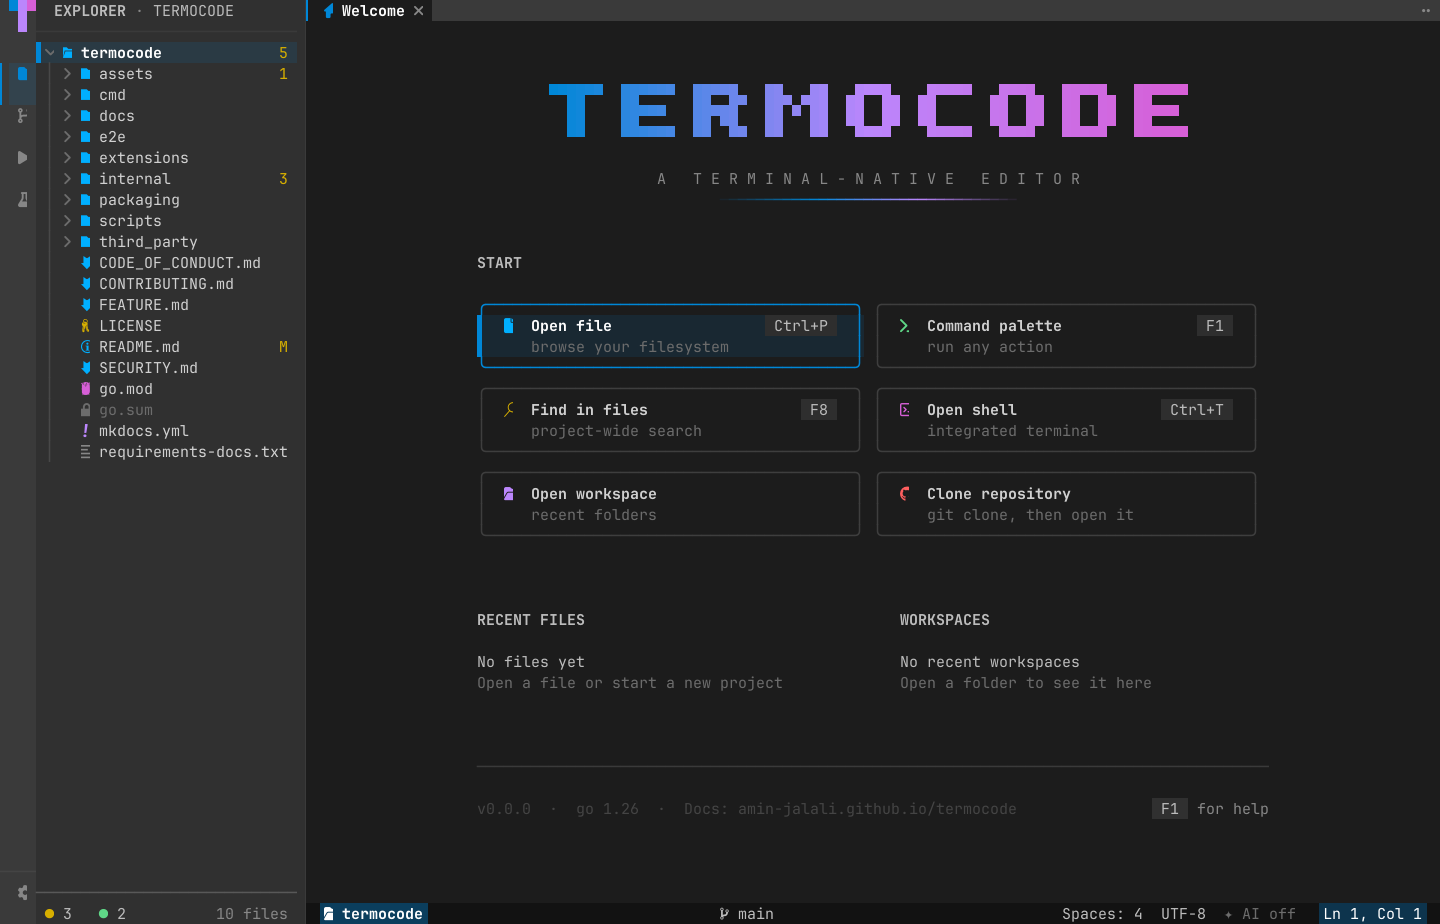
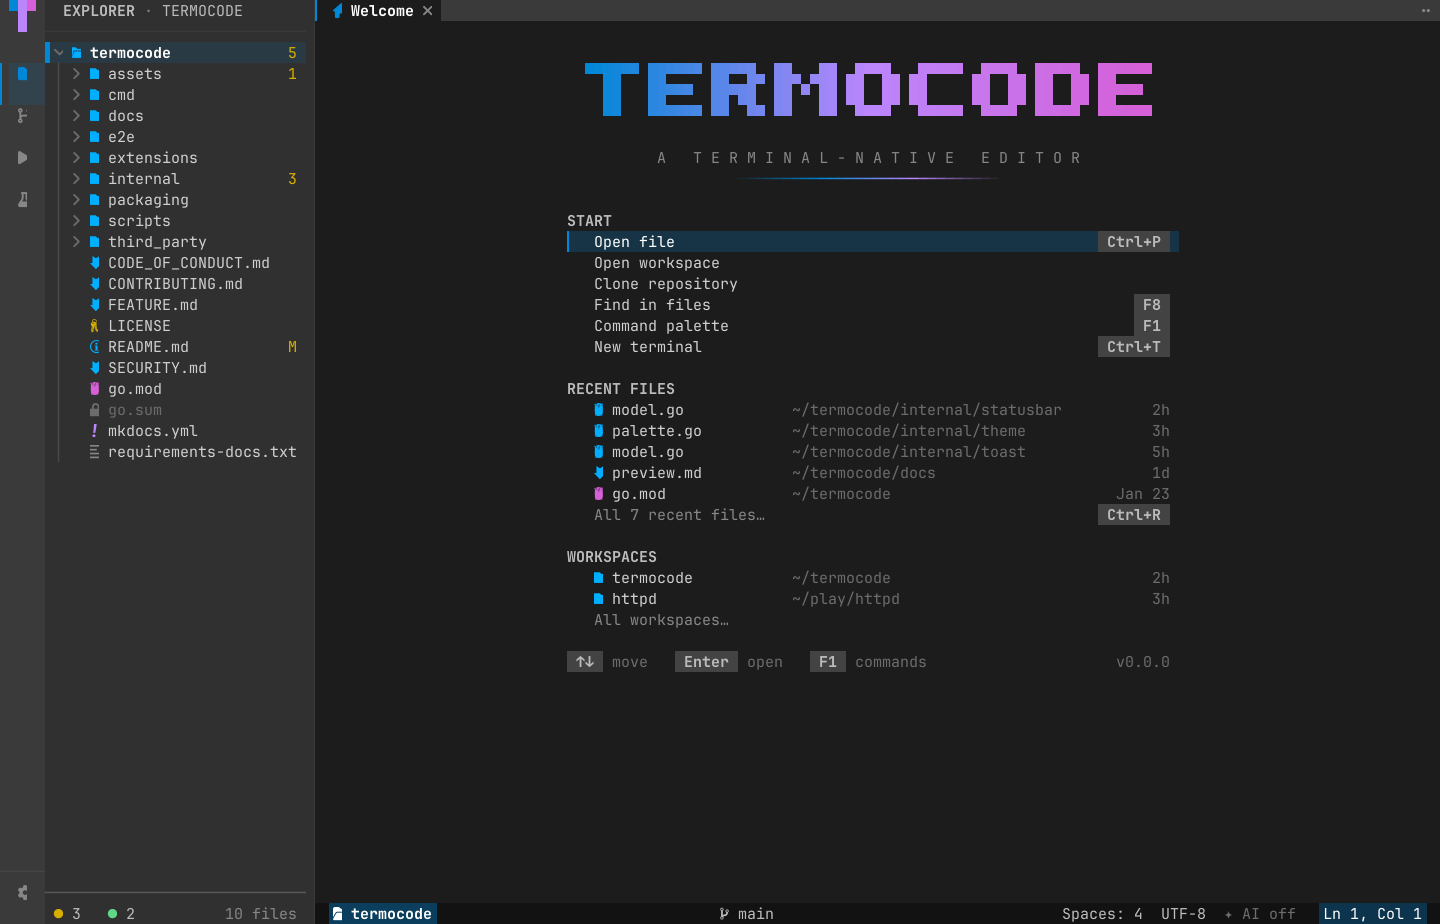
docs(shots): new start page screenshots
dashboard.png and theme-catppuccin-latte-dashboard.png show a returning
user (recent files, workspaces). With seeded lists shotkit uses the
working directory's parent as HOME, so paths read "~/termocode/…".

diff --git a/internal/devtools/shotkit/scenes.go b/internal/devtools/shotkit/scenes.go
@@ -96,7 +96,7 @@ func DiffReview() Scene {
 // Scenes is the screenshot set for assets/screenshots (the shots command).
 func Scenes() []Scene {
 	scenes := []Scene{
-		Dashboard(), Editor(), Palette(), Toast(), SCM(),
+		withName(DashboardRecent(), "dashboard"), Editor(), Palette(), Toast(), SCM(),
 		{Name: "scm-hover", Steps: []Step{Pause(800 * time.Millisecond), Act("view:git"), Pause(1500 * time.Millisecond),
 			Hover(12, 20), Hover(12, 26), Hover(12, 32), Pause(500 * time.Millisecond)}},
 		Confirm(),
@@ -120,7 +120,7 @@ func Scenes() []Scene {
 		scenes = append(scenes, Scene{Name: "theme-" + th + "-palette", Theme: th, Steps: paletteSteps()})
 	}
 	scenes = append(scenes,
-		Scene{Name: "theme-catppuccin-latte-dashboard", Theme: "catppuccin-latte", Steps: []Step{Pause(1500 * time.Millisecond)}},
+		withTheme(withName(DashboardRecent(), "theme-catppuccin-latte-dashboard"), "catppuccin-latte"),
 		Scene{Name: "theme-catppuccin-latte-scm", Theme: "catppuccin-latte", Steps: scmSteps()},
 	)
 	for _, mode := range []string{"unicode", "ascii"} {
@@ -128,6 +128,9 @@ func Scenes() []Scene {
 	}
 	return scenes
 }
+
+func withName(sc Scene, name string) Scene   { sc.Name = name; return sc }
+func withTheme(sc Scene, theme string) Scene { sc.Theme = theme; return sc }
 
 // DemoScene is the README demo (shots -gif): start page, Quick Open, real
 // Neovim motions, the command palette, an AI answer, the AI change review

diff --git a/internal/devtools/shotkit/golden_test.go b/internal/devtools/shotkit/golden_test.go
@@ -91,8 +91,8 @@ func goldenExtras() []Scene {
 		// The cursor moved down onto the second recent file.
 		{Name: "dashboard-recent-cursor", Steps: append(DashboardRecent().Steps, Key("down"), Key("down"), Key("down"), Key("down"), Key("down"), Key("down"), Key("down")),
 			Recents: DashboardRecent().Recents, Workspaces: DashboardRecent().Workspaces},
-		{Name: "theme-catppuccin-latte-dashboard", Theme: "catppuccin-latte", Steps: DashboardRecent().Steps, Recents: DashboardRecent().Recents, Workspaces: DashboardRecent().Workspaces},
-		{Name: "dashboard-ascii", Icons: "ascii", Steps: DashboardRecent().Steps, Recents: DashboardRecent().Recents, Workspaces: DashboardRecent().Workspaces},
+		withTheme(withName(DashboardRecent(), "theme-catppuccin-latte-dashboard"), "catppuccin-latte"),
+		func() Scene { sc := withName(DashboardRecent(), "dashboard-ascii"); sc.Icons = "ascii"; return sc }(),
 		{Name: "md-preview-light", Theme: "catppuccin-latte", Steps: MarkdownPreview().Steps},
 		DiffReview(),
 		// Persian (right-to-left) chat: shaped letters in reading order.

diff --git a/internal/devtools/shotkit/shotkit.go b/internal/devtools/shotkit/shotkit.go
@@ -192,6 +192,17 @@ func Run(sc Scene, w, h int, opt Options) (string, error) {
 			os.Setenv("TERMOCODE_PLUGINS_DIR", p)
 		}
 	}
+	// The start page writes paths under the home directory as "~/…". With
+	// seeded lists the working directory's parent plays the home, so the
+	// shots read "~/termocode/…" like on a real machine (the golden child
+	// has that layout already).
+	if len(sc.Recents)+len(sc.Workspaces) > 0 {
+		if wd, err := os.Getwd(); err == nil {
+			old := os.Getenv("HOME")
+			os.Setenv("HOME", filepath.Dir(wd))
+			defer os.Setenv("HOME", old)
+		}
+	}
 	for k, v := range sc.Env {
 		os.Setenv(k, v)
 		defer os.Unsetenv(k)

diff --git a/assets/screenshots/README.md b/assets/screenshots/README.md
@@ -18,7 +18,7 @@ go run ./internal/devtools/shots -font … -only dashboard,palette   # some scen
 
 | File | Shows |
 |---|---|
-| `dashboard.png` | start page: gradient wordmark, action tiles |
+| `dashboard.png` | start page: gradient wordmark, START list, recent files, workspaces |
 | `editor.png` | explorer, tabs, breadcrumbs, editor, status bar |
 | `palette.png` | command palette over the dimmed editor, with its shadow |
 | `toast.png` | a toast card |
